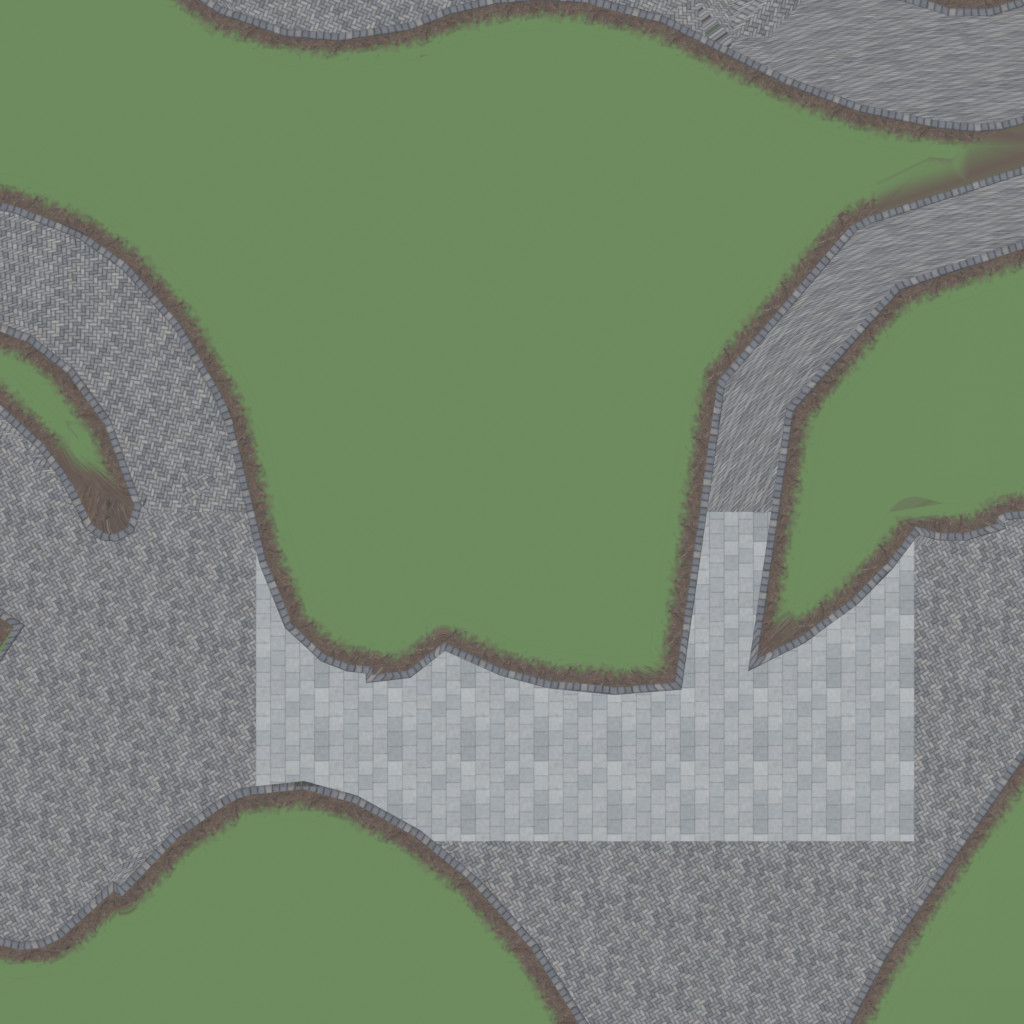
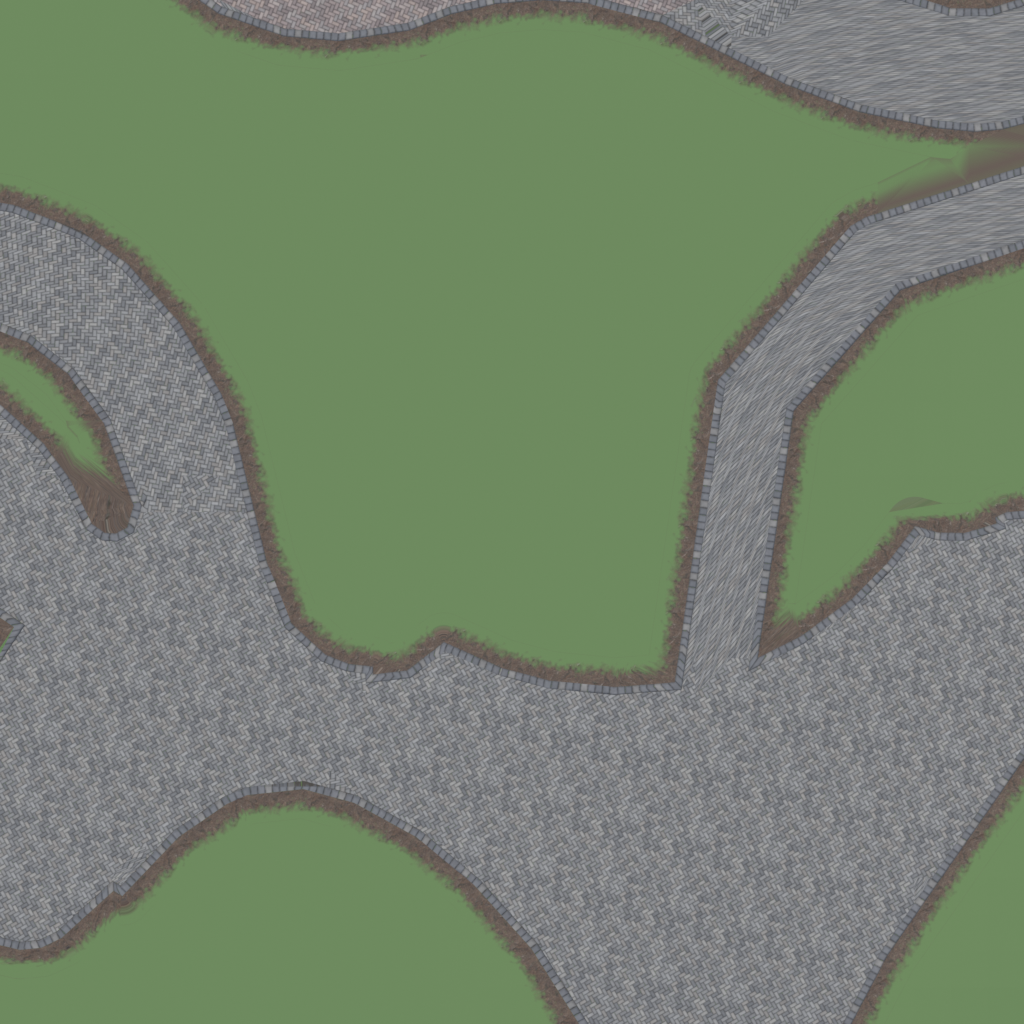
Paden ronde 3c: soort per heel pad (wisselt alleen op echte kruisingen), platen Trollenkoning weg

Changed region(s): [[0.25, 0.5, 0.9062, 0.8438], [0.25, 0.0, 0.4062, 0.0312]]

diff --git a/models/PR_Paden/build/02_mesh.py b/models/PR_Paden/build/02_mesh.py
@@ -62,6 +62,7 @@ for q in json.load(open(os.path.join(D, 'ref_zones.json')))['zones']:
     else: g = shape(q['poly'])
     q['geom'] = g; ZONES.append(q)
 for q in ZONES:
+    if q.get('per_pad'): continue   # per heel pad toegekend (na de padketens), geen snijlijn dwars door een pad
     zg = q['geom'].intersection(Ui)
     soorten = [k for k in SURF if k not in ('kantsteen', 'rand') and (not q.get('alleen') or k in q['alleen'])]
     if q.get('alleen'): zg = zg.intersection(unary_union([SURF[k] for k in soorten] or [Polygon()])).buffer(0)
@@ -236,6 +237,66 @@ def veld_uv(P):
 print('verbandveld klaar', N2, 'pixels')
 np.savez_compressed(os.path.join(D, 'exports', 'verbandveld.npz'), U=UFLD, V=VFLD, M=M2, FX=FX, FY=FY, minx=minx, maxy=maxy, rs=RS2)
 TREE = STRtree([l['geom'] for l in LIJN])
+# per_pad-zones: elk pad wordt op zijn kruisingen in stukken geknipt; een stuk hoort bij de zone als het grootste deel erin ligt.
+# Zo wisselt de soort alleen op een kruising (zijpad tegen hoofdpad), nooit midden in een pad.
+KNIP = []
+for li, l in enumerate(LIJN):
+    g = l['geom']; js = []
+    for lj, m_ in enumerate(LIJN):
+        if lj == li: continue
+        for e in (m_['geom'].coords[0], m_['geom'].coords[-1]):
+            pe = Point(e)
+            if g.distance(pe) < l['h'] + 1.5:
+                t = g.project(pe)
+                if 2.0 < t < g.length - 2.0: js.append(t)
+        if g.crosses(m_['geom']):
+            for q_ in getattr(g.intersection(m_['geom']), 'geoms', [g.intersection(m_['geom'])]):
+                if isinstance(q_, Point): js.append(g.project(q_))
+    KNIP.append(np.array(sorted([0.0] + js + [g.length + 1e-6])))
+# padstukken -> routes: stukken die op een knoop van precies twee stukken (geen echte kruising) aansluiten horen bij dezelfde route
+STUK = [(li, k) for li in range(len(LIJN)) for k in range(len(KNIP[li]) - 1)]
+SI = {st: i for i, st in enumerate(STUK)}
+eind = []
+for i, (li, k) in enumerate(STUK):
+    g = LIJN[li]['geom']
+    for t in (KNIP[li][k], min(KNIP[li][k + 1], g.length)): eind.append((i, g.interpolate(t).coords[0]))
+EP = np.array([e[1] for e in eind]); ouder = list(range(len(STUK)))
+def wortel(i):
+    while ouder[i] != i: ouder[i] = ouder[ouder[i]]; i = ouder[i]
+    return i
+gezien = np.zeros(len(eind), bool)
+for e in range(len(eind)):
+    if gezien[e]: continue
+    cl = np.where(np.hypot(*(EP - EP[e]).T) < 3.0)[0]; gezien[cl] = True
+    st = sorted(set(eind[c][0] for c in cl))
+    if len(st) == 2: ouder[wortel(st[0])] = wortel(st[1])
+# zelfde pad over een knip heen samenvoegen als daar geen zichtbare aansluiting is (bestrating niet breder dan het pad zelf)
+for li in range(len(LIJN)):
+    g = LIJN[li]['geom']; h_ = LIJN[li]['h']
+    for k in range(1, len(KNIP[li]) - 1):
+        t = KNIP[li][k]
+        if t <= 0.5 or t >= g.length - 0.5: continue
+        r_ = h_ + 2.5; schijf = g.interpolate(t).buffer(r_, 24)
+        strook = g.buffer(h_ + 0.3, cap_style=2).intersection(schijf).area
+        if U.intersection(schijf).area < strook * 1.25:   # geen echte kruising
+            ouder[wortel(SI[(li, k - 1)])] = wortel(SI[(li, k)])
+ROUTE = [wortel(i) for i in range(len(STUK))]
+print('padstukken', len(STUK), 'routes', len(set(ROUTE)))
+PERPAD = []
+for q in ZONES:
+    if not q.get('per_pad'): continue
+    binnen_l, tot_l = {}, {}
+    for i, (li, k) in enumerate(STUK):
+        g = LIJN[li]['geom']; a_, b_ = KNIP[li][k], min(KNIP[li][k + 1], g.length)
+        ts = np.arange(a_ + 0.25, b_, 0.5) if b_ - a_ > 0.5 else np.array([(a_ + b_) / 2])
+        f = float(np.mean(shapely.contains(q['geom'], shapely.points([g.interpolate(t).coords[0] for t in ts]))))
+        r = ROUTE[i]; binnen_l[r] = binnen_l.get(r, 0) + f * (b_ - a_); tot_l[r] = tot_l.get(r, 0) + (b_ - a_)
+    vl = {li: np.array([binnen_l[ROUTE[SI[(li, k)]]] > 0.5 * tot_l[ROUTE[SI[(li, k)]]] for k in range(len(KNIP[li]) - 1)]) for li in range(len(LIJN))}
+    PERPAD.append((q, vl)); print('per pad', q['naam'], sum(int(v.sum()) for v in vl.values()), 'padstukken in de zone')
+def pad_vlag(vl, li, pts):
+    """In-zone-vlag per punt voor punten van keten li (stuk tussen twee kruisingen)."""
+    t = shapely.line_locate_point(LIJN[li]['geom'], pts); k = np.clip(np.searchsorted(KNIP[li], t, side='right') - 1, 0, len(vl[li]) - 1)
+    return vl[li][k]
 RINGS = []
 for pg in polys(U):
     RINGS.append(LineString(pg.exterior.coords))
@@ -296,7 +357,7 @@ for mat, geom in SURF.items():
     else:   # rand: van +0,10 aan de padkant naar +0,03 buiten
         Y = Y + 0.10 - 0.07 * np.clip(afst(P[:, 0], P[:, 1], False) / FRINGE, 0, 1)
     # UV
-    UV = np.zeros((len(P), 2))
+    UV = np.zeros((len(P), 2)); nmat = np.array([mat] * len(T), dtype=object)
     if mat in ('klinker', 'grijs', 'keitjes', 'platen', 'kassei', 'waaier', 'roze', 'plavuis'):
         per = PERIODE[mat]; u = np.zeros(len(P)); v = np.zeros(len(P))
         pts = shapely.points(C)
@@ -339,6 +400,27 @@ for mat, geom in SURF.items():
                 th3 = th.reshape(-1, 3); spr = th3.max(1) - th3.min(1) > np.pi; th3[spr] = np.where(th3[spr] < 0, th3[spr] + 2 * np.pi, th3[spr])
                 u[sel] = r; v[sel] = th3.reshape(-1) * np.maximum(r, 0.5)
         UV = np.column_stack([v / per, u / per])
+        nmat = np.array([mat] * len(T), dtype=object)
+        for q, vl in PERPAD:
+            if mat not in q.get('alleen', []): continue
+            hit = np.zeros(len(T), bool); cp = shapely.points(C)
+            for li in np.unique(own[own >= 0]):
+                sel = np.where(own == li)[0]; hit[sel] = pad_vlag(vl, int(li), cp[sel])
+            # verbredingen/pleinen: stemmen met de paden die erdoorheen lopen (dichtstbijzijnde padstuk per driehoek), hele plein in of uit
+            wsel = np.where(own == -2)[0]
+            if len(wsel):
+                nb = TREE.query_nearest(cp[wsel]); near = np.zeros(len(wsel), int); near[nb[0]] = nb[1]
+                stem = np.zeros(len(wsel), bool)
+                for li in np.unique(near):
+                    m_ = near == li; stem[m_] = pad_vlag(vl, int(li), cp[wsel[m_]])
+                for k in np.unique(vb[wsel]):
+                    mk = vb[wsel] == k; hit[wsel[mk]] = stem[mk].mean() > 0.5
+            nmat[hit] = q['type']
+            si = np.repeat(np.where(hit)[0] * 3, 3) + np.tile([0, 1, 2], int(hit.sum())); ps = P[si]; pn = PERIODE[q['type']]
+            if q['uv'] == 'recht':
+                a = math.radians(q.get('hoek', 0)); uu = ps[:, 0] * math.cos(a) + ps[:, 1] * math.sin(a); vv = -ps[:, 0] * math.sin(a) + ps[:, 1] * math.cos(a)
+                UV[si] = np.column_stack([vv / pn, uu / pn])
+            else: UV[si] = UV[si] * per / pn
     elif mat == 'asfalt':
         UV = P / PERIODE[mat]
     else:   # kantsteen / rand: langs de padrand
@@ -354,10 +436,14 @@ for mat, geom in SURF.items():
             UV[np.repeat(sel * 3, 3) + np.tile([0, 1, 2], len(sel))] = np.column_stack([u.reshape(-1) / PERIODE[mat], np.clip(dv, 0, 1)])
     # tegels
     tid = np.floor(C / TEGEL).astype(int)
-    for key in set(map(tuple, tid)):
-        sel = np.where((tid[:, 0] == key[0]) & (tid[:, 1] == key[1]))[0]
-        k = f"{mat}_{key[0]}_{key[1]}"
-        res[k] = {'mat': mat, 'tegel': [int(key[0]), int(key[1])],
+    for key in set((str(m_), a_, b_) for m_, (a_, b_) in zip(nmat, map(tuple, tid))):
+        m2 = key[0]; key = key[1:]
+        sel = np.where((tid[:, 0] == key[0]) & (tid[:, 1] == key[1]) & (nmat == m2))[0]
+        k = f"{m2}_{key[0]}_{key[1]}"
+        if k in res:   # zelfde soort+tegel uit een andere bron-soort: samenvoegen
+            res[k]['tri'] += np.round(np.column_stack([-T[sel].reshape(-1, 2)[:, 0], -T[sel].reshape(-1, 2)[:, 1], Y.reshape(-1, 3)[sel].reshape(-1) / 3]), 3).tolist()
+            res[k]['uv'] += np.round(UV.reshape(-1, 3, 2)[sel].reshape(-1, 2), 4).tolist(); continue
+        res[k] = {'mat': m2, 'tegel': [int(key[0]), int(key[1])],
                   'tri': np.round(np.column_stack([-T[sel].reshape(-1, 2)[:, 0], -T[sel].reshape(-1, 2)[:, 1], Y.reshape(-1, 3)[sel].reshape(-1) / 3]), 3).tolist(),
                   'uv': np.round(UV.reshape(-1, 3, 2)[sel].reshape(-1, 2), 4).tolist()}
     print(mat, len(T), 'driehoeken')

diff --git a/STATUS.md b/STATUS.md
@@ -869,3 +869,10 @@ aangevuld met OSM-paden die > 3 m van een BGT-pad liggen (2,2 m / 3,5 m breed). 
 - In Studio lagen v1-delen over de nieuwe paden en staken erdoorheen (beige vlakken op het ronde plein): Herautenplein.MAT_bodem, SneeuwwitjeOmgeving.MAT_aarde/MAT_klinker/MAT_band -> ServerStorage.V1PadVervangen (attribuut Herkomst, terug te zetten). plaats_paden.luau doet dit nu ook.
 - Studio: MODEL 93309456015457, 451 delen met textuur. Place nog niet opgeslagen.
 - Open (stap 5): voor de Trollenkoning-boom ligt nog het beige v1-pleintje van TrollenkoningPlein met een strook gras tot het platenplein; in het echt staat de boom aan het platenplein.
+
+### Ronde 3c (15 nov 2026): geen gare overgangen
+- Daan: overal hetzelfde pad aanhouden als een overgang lelijk wordt; alleen het Herautenplein houdt eigen bestrating.
+- Zones `Zuidbos_grijs` en `Kabouterdorp_keitjes` zijn nu `per_pad`: elk pad wordt op zijn kruisingen in stukken geknipt, stukken zonder zichtbare aansluiting (bestrating daar niet breder dan het pad) worden samengevoegd tot een route, en een route krijgt in zijn geheel een soort (meerderheid van de lengte in de zone). Verbredingen stemmen mee met de paden die erdoorheen lopen. De soort wisselt dus alleen waar een zijpad echt aansluit of een plein begint.
+- Platen op het Trollenkoningplein weer weg (rechte snijlijn); daar loopt de grijze visgraat door.
+- Gevolg: het pad langs Zevengeitjes is nu ook grijs (loopt zonder kruising door in de grijze lus), het hoofdpad door Kabouterdorp is roodbruin met keitjes op de zijpaden/pleintjes.
+- Studio: MODEL 129106712042227, 447 delen met textuur. Place nog niet opgeslagen.
